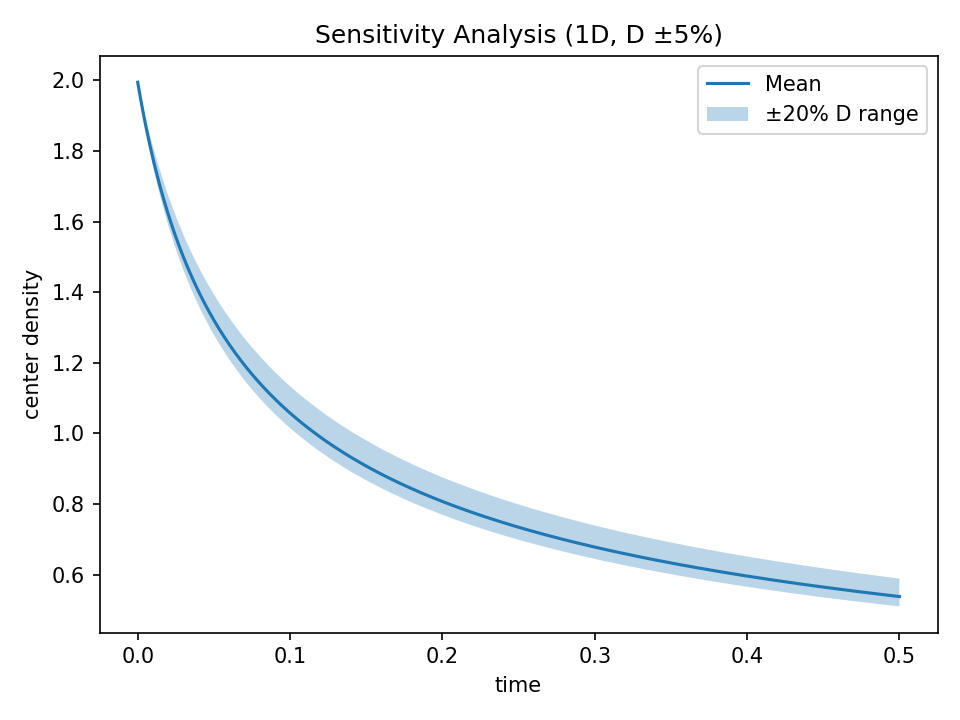
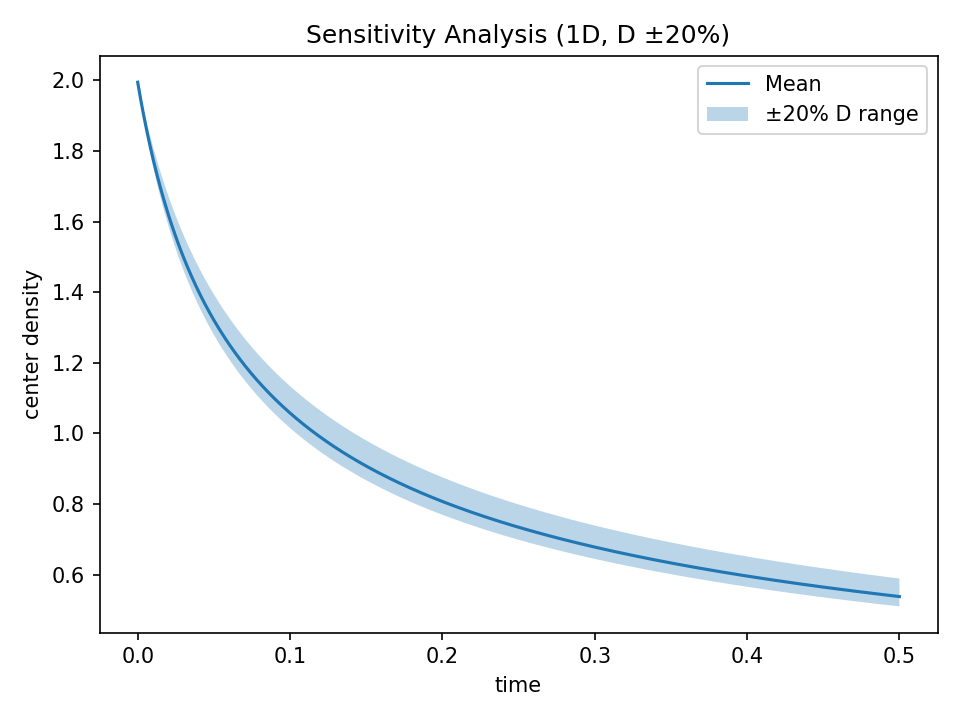
corrected title

Changed region(s): [[0.3125, 0.0306, 0.7812, 0.0611]]

diff --git a/main.py b/main.py
@@ -227,7 +227,7 @@ def run_sensitivity_analysis(out_dir: Path) -> None:
     plt.fill_between(times_ref, low, high, alpha=0.3, label="±20% D range")
     plt.xlabel("time")
     plt.ylabel("center density")
-    plt.title("Sensitivity Analysis (1D, D ±5%)")
+    plt.title("Sensitivity Analysis (1D, D ±20%)")
     plt.legend()
     plt.tight_layout()
     plt.savefig(out_dir / "sensitivity_1d.png", dpi=150)
